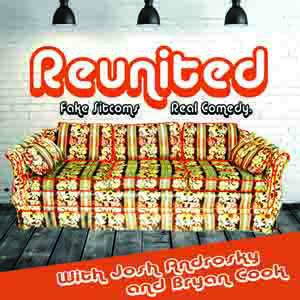
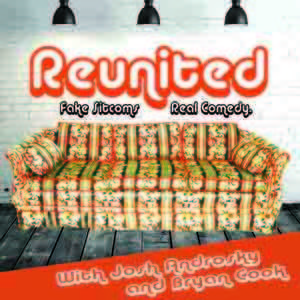
Updated site - 10 files changes

diff --git a/show/16473-reunited/index.html b/show/16473-reunited/index.html
@@ -1,0 +1,17 @@
+---
+layout: page
+title: 'Reunited!'
+category: show 
+featuredimage: '/api/img/show-images/show-reunited-300x300.jpg'
+---
+
+Reunited! brings together the casts of beloved sitcoms for in-depth panel discussions, Q &amp; A sessions, and table-reads of classic scenes.
+
+ 
+
+The catch? The shows never existed, except in the minds of hosts/show-creators Josh Androsky and Bryan Cook.  Additionally, none of the guests have any prior knowledge of the series they “starred” on.
+
+ 
+
+Cook and Androsky create a fictionalized world where a panel of comics discuss personal issues, professional pitfalls, and brushes with the law. It would be the most scandalous show in Hollywood if any of it had ever happened.
+

diff --git a/show/16752-crabapples/index.html b/show/16752-crabapples/index.html
@@ -1,0 +1,11 @@
+---
+layout: page
+title: 'Crabapples'
+category: show 
+featuredimage: '/api/img/show-images/show-crabapples-300x300.jpg'
+---
+
+Comedy Legend Bobcat Goldthwait and Caitlin Gill (Take My Wife writer, also Bobcat's roommate) gather some of the most eclectic personalities around, and bring together a comedy/variety show that celebrates everyone's own wierdness and individuality. Its common to find Drag Queens, Standups, Poets, and modern dancers all on one show, while tieing together a common theme. 
+
+Named one of the best local shows in Los Angeles by LA WEEKLY, Crabapples has sold out at SF Sketchfest and RIOT LA Fest this year, and will be touring this year!
+

diff --git a/show/16088-gay-bash/index.html b/show/16088-gay-bash/index.html
@@ -1,0 +1,7 @@
+---
+layout: page
+title: 'Gay Bash'
+category: show 
+featuredimage: '/api/img/show-images/show-gaybash-300x300.jpg'
+---
+
